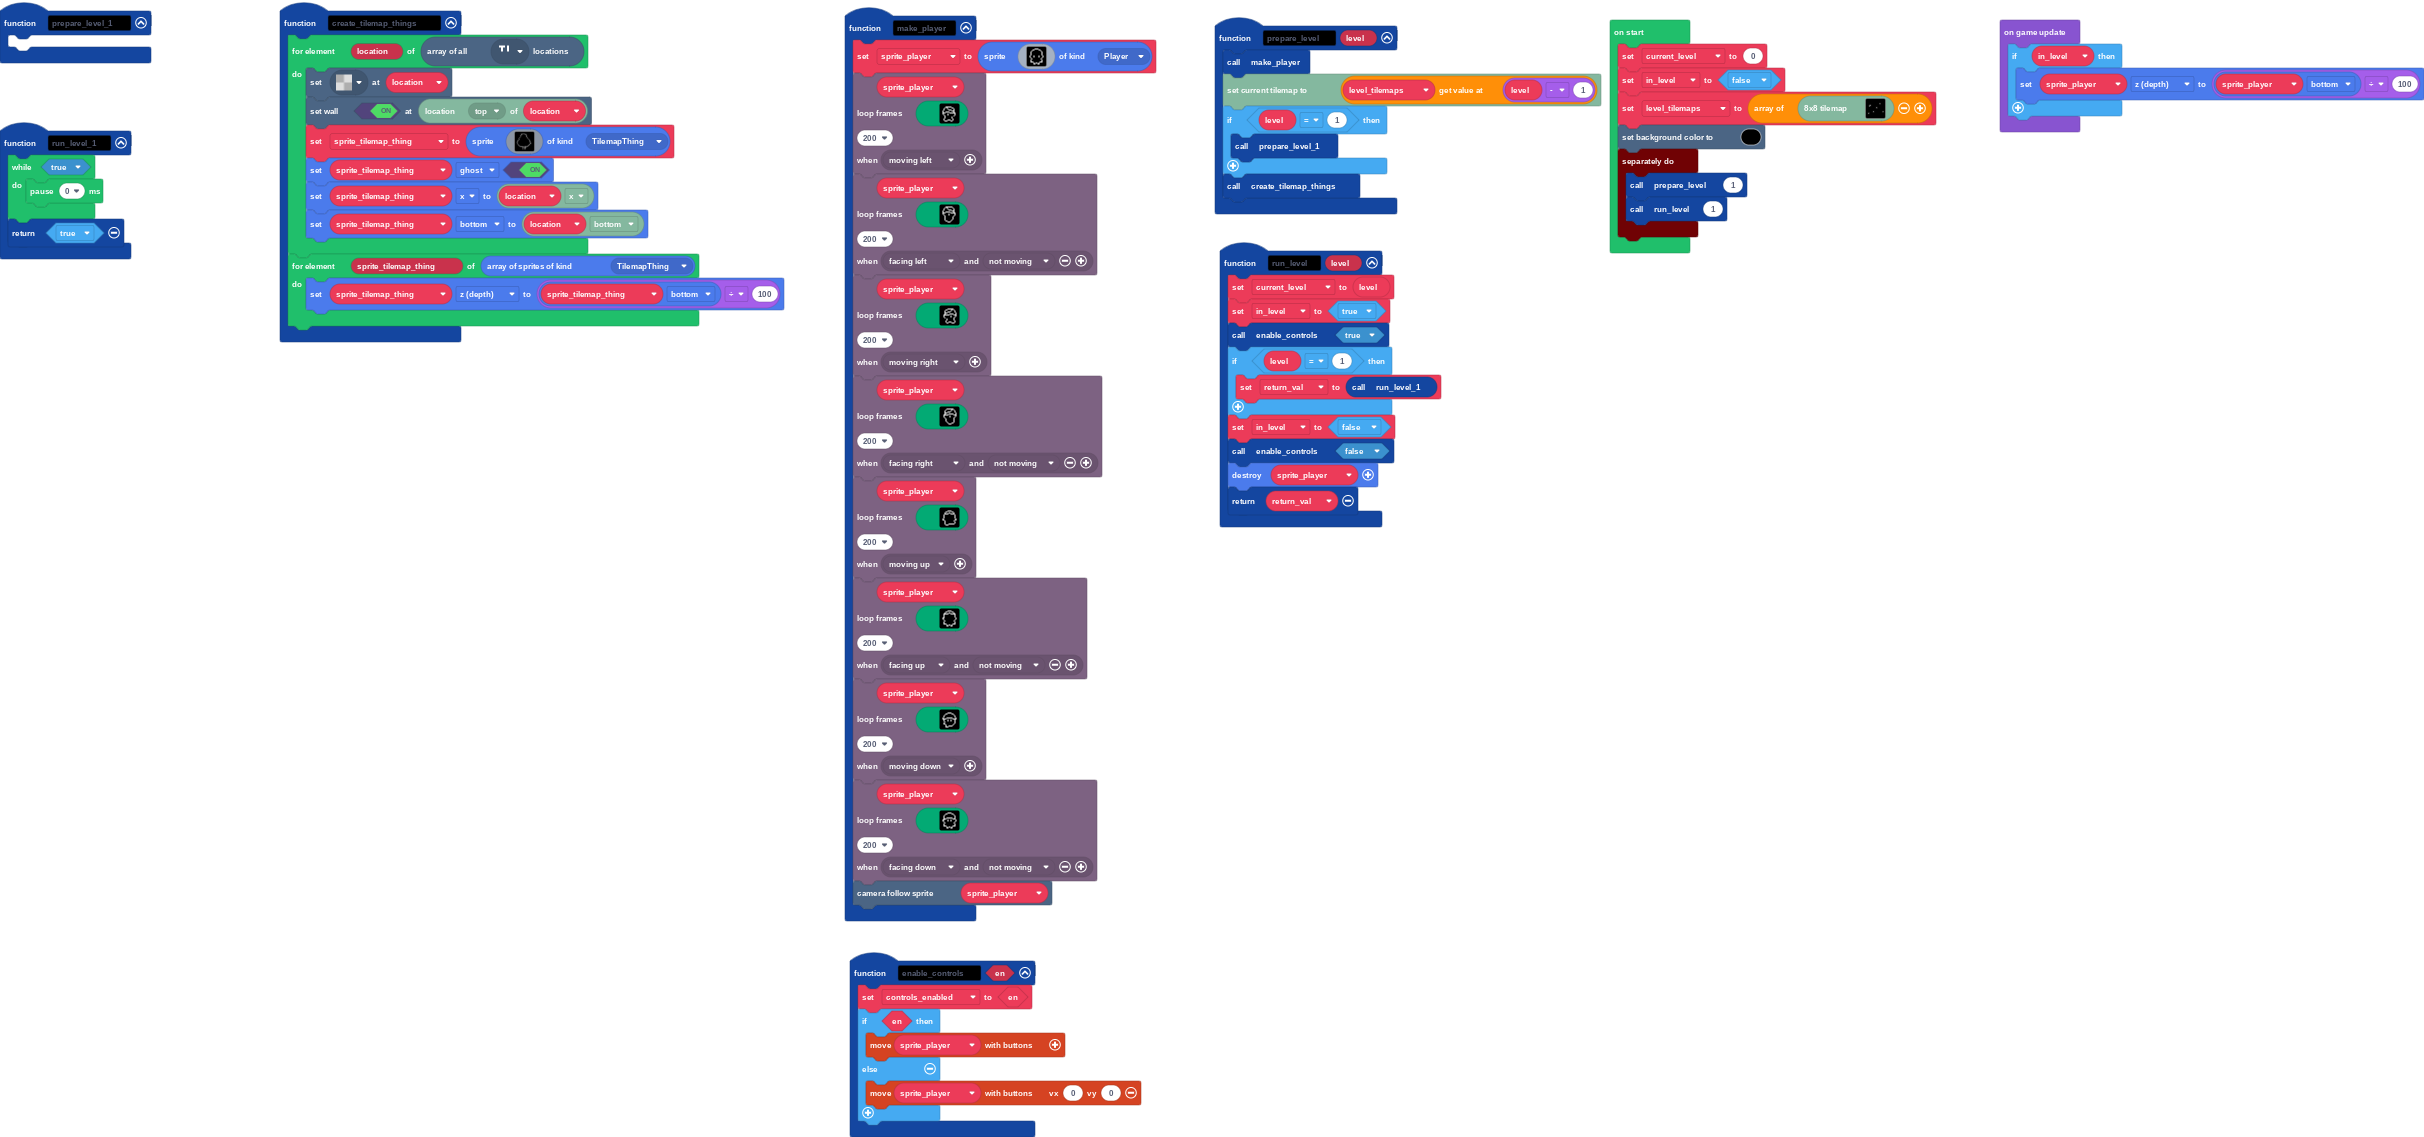
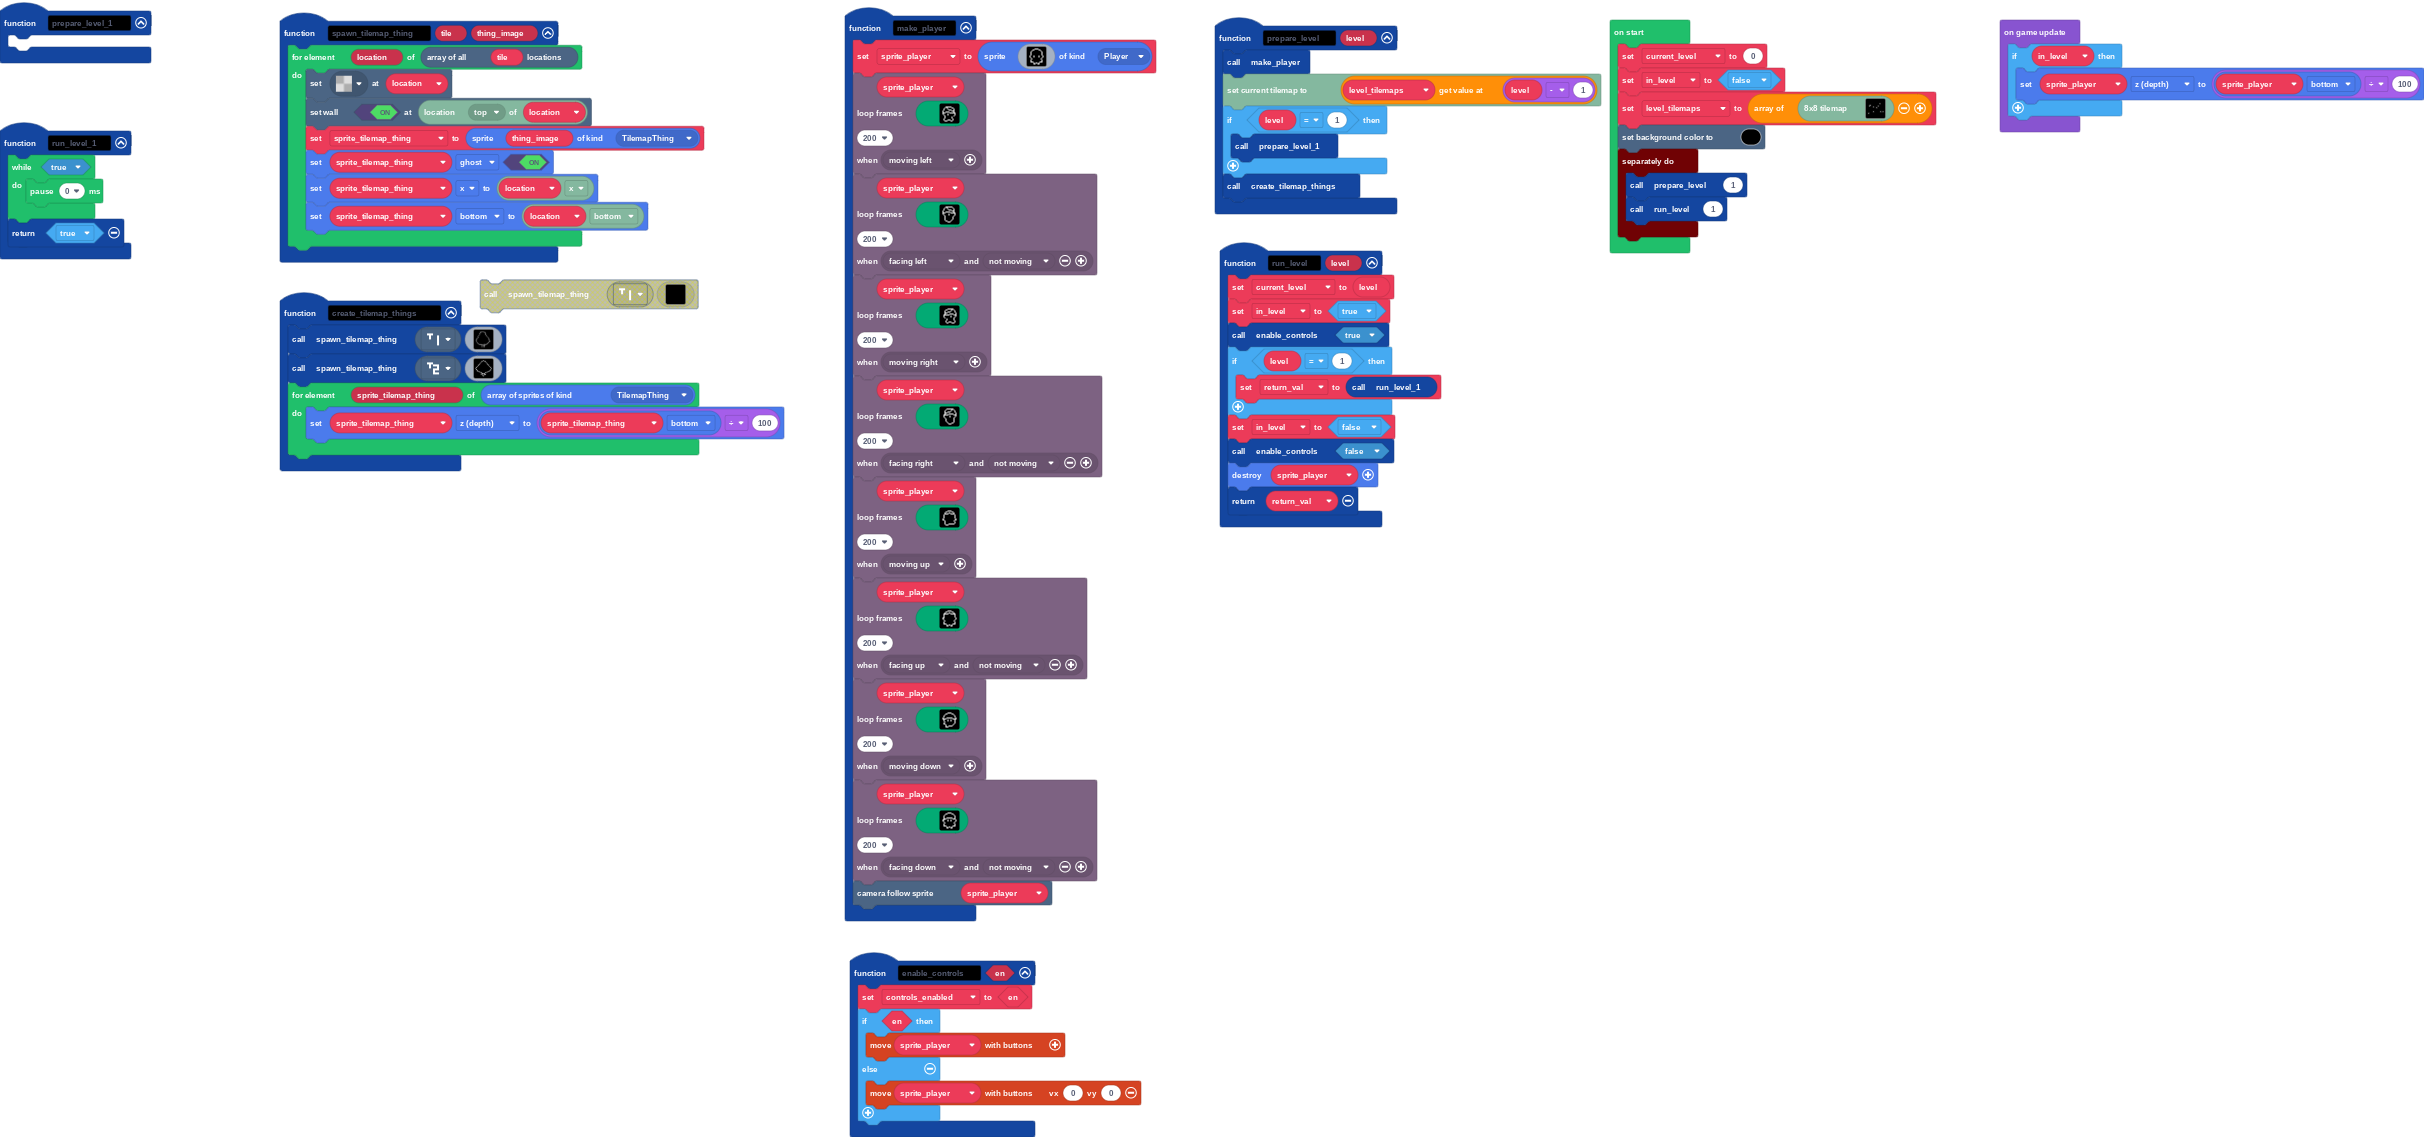
Tree 2 in tilemap

Changed region(s): [[0.0928, 0.0, 0.3403, 0.431]]

diff --git a/tilemap.g.ts b/tilemap.g.ts
@@ -7,6 +7,8 @@ namespace myTiles {
     //% fixedInstance jres blockIdentity=images._tile
     export const tile1 = image.ofBuffer(hex``);
     //% fixedInstance jres blockIdentity=images._tile
+    export const tile3 = image.ofBuffer(hex``);
+    //% fixedInstance jres blockIdentity=images._tile
     export const tile2 = image.ofBuffer(hex``);
 
     helpers._registerFactory("tilemap", function(name: string) {
@@ -79,7 +81,7 @@ namespace myTiles {
 . . . . . . . . . . . . . . . . 
 `, [myTiles.transparency16], TileScale.Sixteen);
             case "level_0":
[2 lines of base64/hex data omitted]
 . . . . . . . . . . . . . . . . . . . . 
 . . . . . . . . . . . . . . . . . . . . 
 . . . . . . . . . . . . . . . . . . . . 
@@ -95,7 +97,7 @@ namespace myTiles {
 . . . . . . . . . . . . . . . . . . . . 
 . . . . . . . . . . . . . . . . . . . . 
 . . . . . . . . . . . . . . . . . . . . 
-`, [myTiles.transparency8,myTiles.tile1,myTiles.tile2], TileScale.Eight);
+`, [myTiles.transparency8,myTiles.tile1,myTiles.tile2,myTiles.tile3], TileScale.Eight);
         }
         return null;
     })
@@ -106,6 +108,8 @@ namespace myTiles {
             case "transparency8":return transparency8;
             case "grass_0":
             case "tile1":return tile1;
+            case "tile_tree_2":
+            case "tile3":return tile3;
             case "tree_1":
             case "tile2":return tile2;
         }

diff --git a/main.ts b/main.ts
@@ -7,6 +7,16 @@ function run_level_1 () {
     }
     return true
 }
+function spawn_tilemap_thing (tile: Image, thing_image: Image) {
+    for (let location of tiles.getTilesByType(tile)) {
+        tiles.setTileAt(location, assets.tile`transparency8`)
+        tiles.setWallAt(tiles.locationInDirection(location, CollisionDirection.Top), true)
+        sprite_tilemap_thing = sprites.create(thing_image, SpriteKind.TilemapThing)
+        sprite_tilemap_thing.setFlag(SpriteFlag.Ghost, true)
+        sprite_tilemap_thing.x = tiles.locationXY(location, tiles.XY.x)
+        sprite_tilemap_thing.bottom = tiles.locationXY(location, tiles.XY.bottom)
+    }
+}
 function run_level (level: number) {
     current_level = level
     in_level = true
@@ -91,22 +101,16 @@ function enable_controls (en: boolean) {
     }
 }
 function create_tilemap_things () {
-    for (let location of tiles.getTilesByType(assets.tile`tree_1`)) {
-        tiles.setTileAt(location, assets.tile`transparency8`)
-        tiles.setWallAt(tiles.locationInDirection(location, CollisionDirection.Top), true)
-        sprite_tilemap_thing = sprites.create(assets.image`tree_1`, SpriteKind.TilemapThing)
-        sprite_tilemap_thing.setFlag(SpriteFlag.Ghost, true)
-        sprite_tilemap_thing.x = tiles.locationXY(location, tiles.XY.x)
-        sprite_tilemap_thing.bottom = tiles.locationXY(location, tiles.XY.bottom)
-    }
+    spawn_tilemap_thing(assets.tile`tree_1`, assets.image`tree_1`)
+    spawn_tilemap_thing(assets.tile`tile_tree_2`, assets.image`tree_2`)
     for (let sprite_tilemap_thing of sprites.allOfKind(SpriteKind.TilemapThing)) {
         sprite_tilemap_thing.z = sprite_tilemap_thing.bottom / 100
     }
 }
-let sprite_tilemap_thing: Sprite = null
 let controls_enabled = false
 let sprite_player: Sprite = null
 let return_val = false
+let sprite_tilemap_thing: Sprite = null
 let level_tilemaps: tiles.WorldMap[] = []
 let in_level = false
 let current_level = 0

diff --git a/images.g.ts b/images.g.ts
@@ -66,6 +66,41 @@ namespace myImages {
 ...............1ffff1...............
 ...............1ffff1...............
 `;
+            case "image3":
+            case "tree_2":return img`
+...............11...............
+............111ff111............
+............1ffffff1............
+...........1ffffffff1...........
+..........1ffffffffff1..........
+.........1ffffffffffff1.........
+........1ffffffffffffff1........
+........1ffffffffffffff1........
+......11ffffffffffffffff11......
+.....1ffffffffffffffffffff1.....
+.....1ffffffffffffffffffff1.....
+....1ffffffffffffffffffffff1....
+...1ffffffffffffffffffffffff1...
+.11ffffffffffffffffffffffffff11.
+.1ffffffffffffffffffffffffffff1.
+1ffffffffffffffffffffffffffffff1
+1ffffffffffffffffffffffffffffff1
+.1ffffffffffffffffffffffffffff1.
+.11fffffffffffffffffffffffffff1.
+...1fffffffffffffffffffffffff11.
+...1ffffffffffffffffffffffff1...
+...111ffffffffffffffffffff111...
+......11ffffffffffffffff11......
+........111ffffffffff111........
+...........11ffffff11...........
+.............1ffff1.............
+............1111111.............
+..........111ffffff11...........
+.............1fff111............
+..............1f1...............
+..............1f1...............
+...............1................
+`;
         }
         return null;
     })
